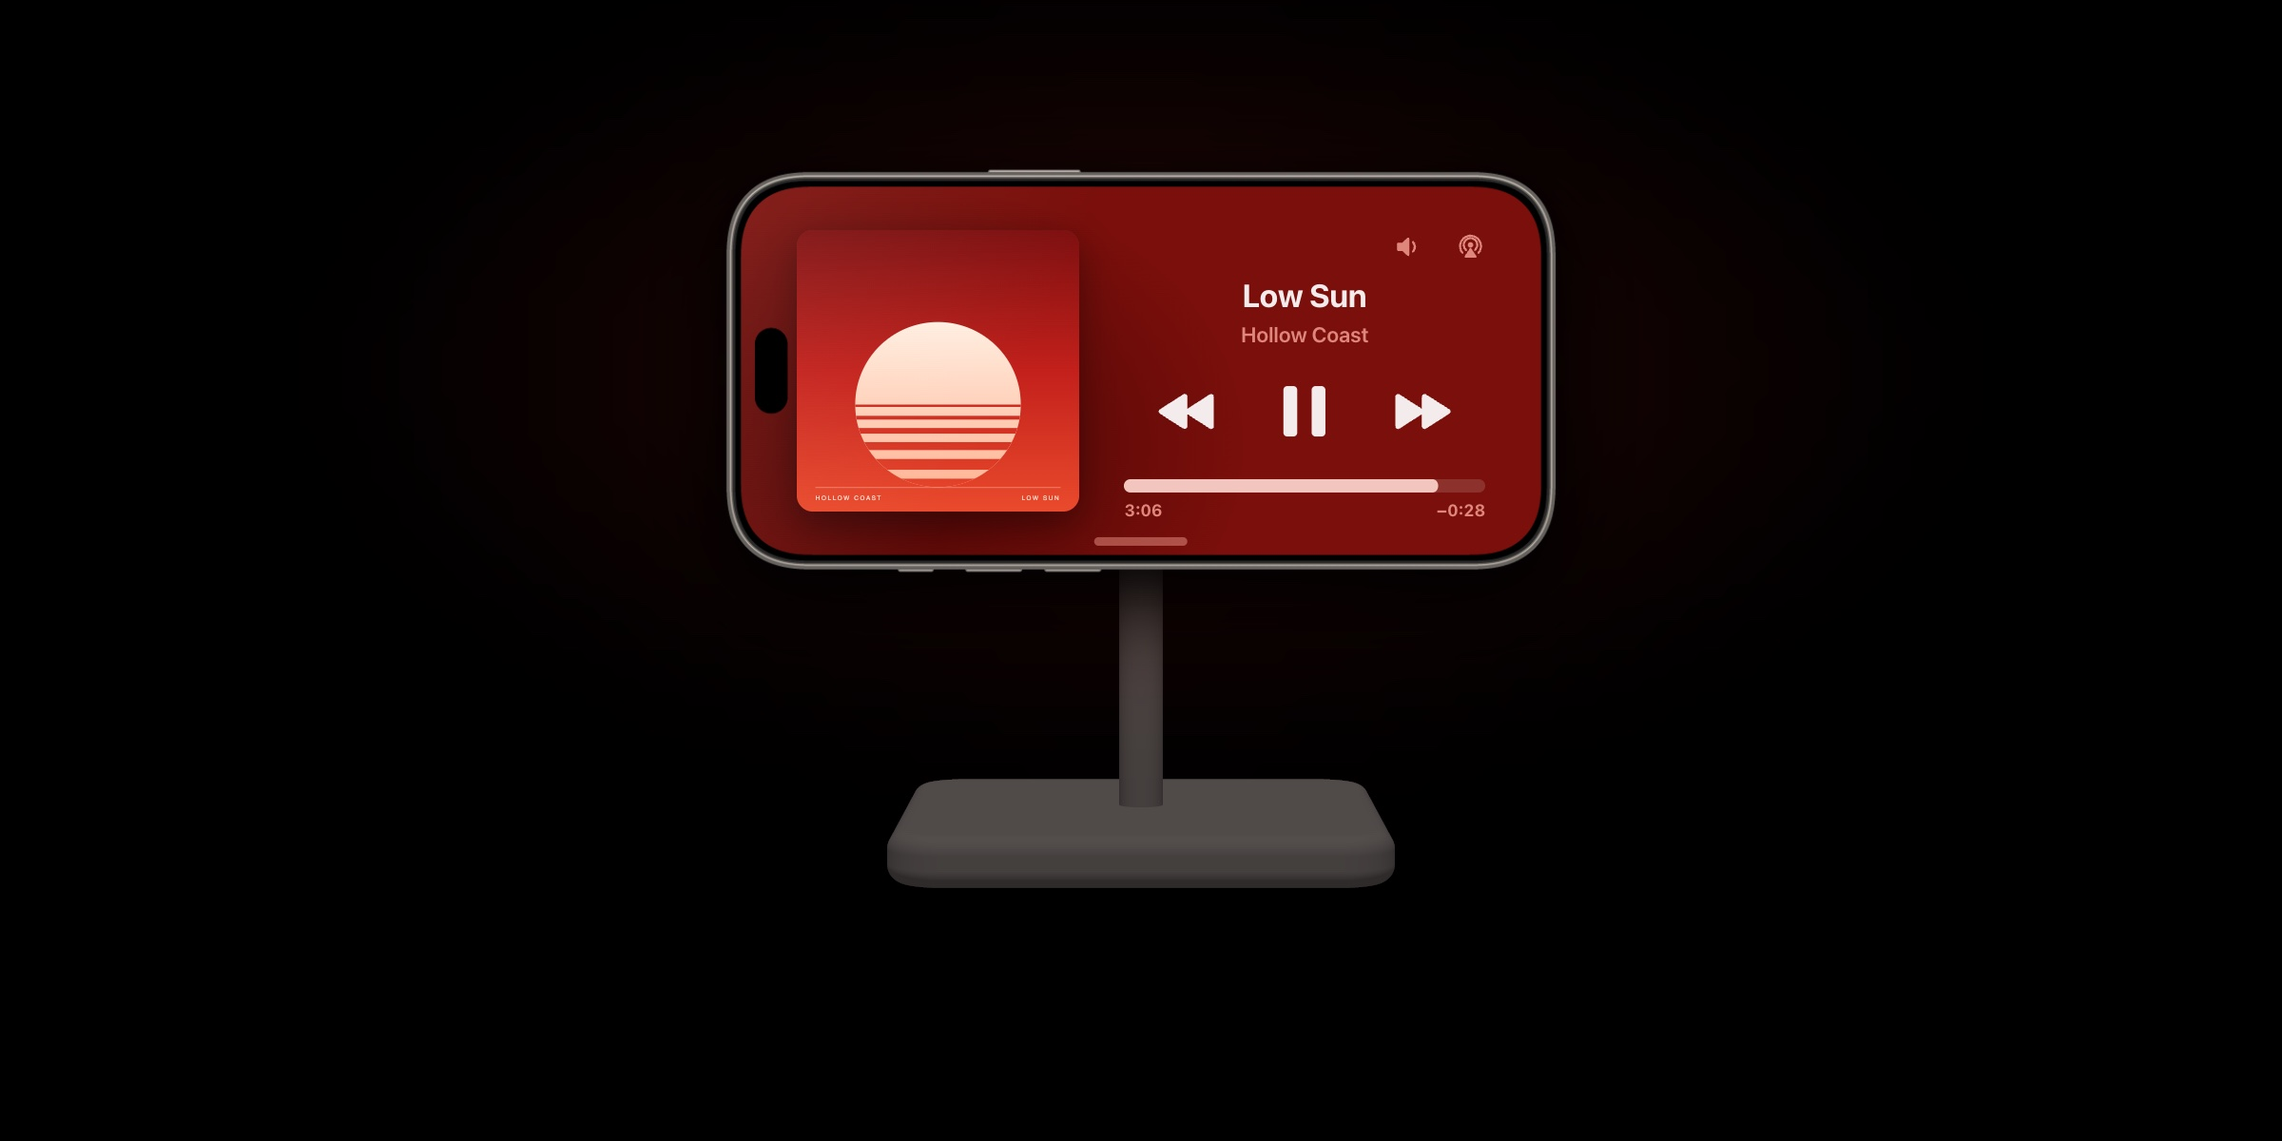
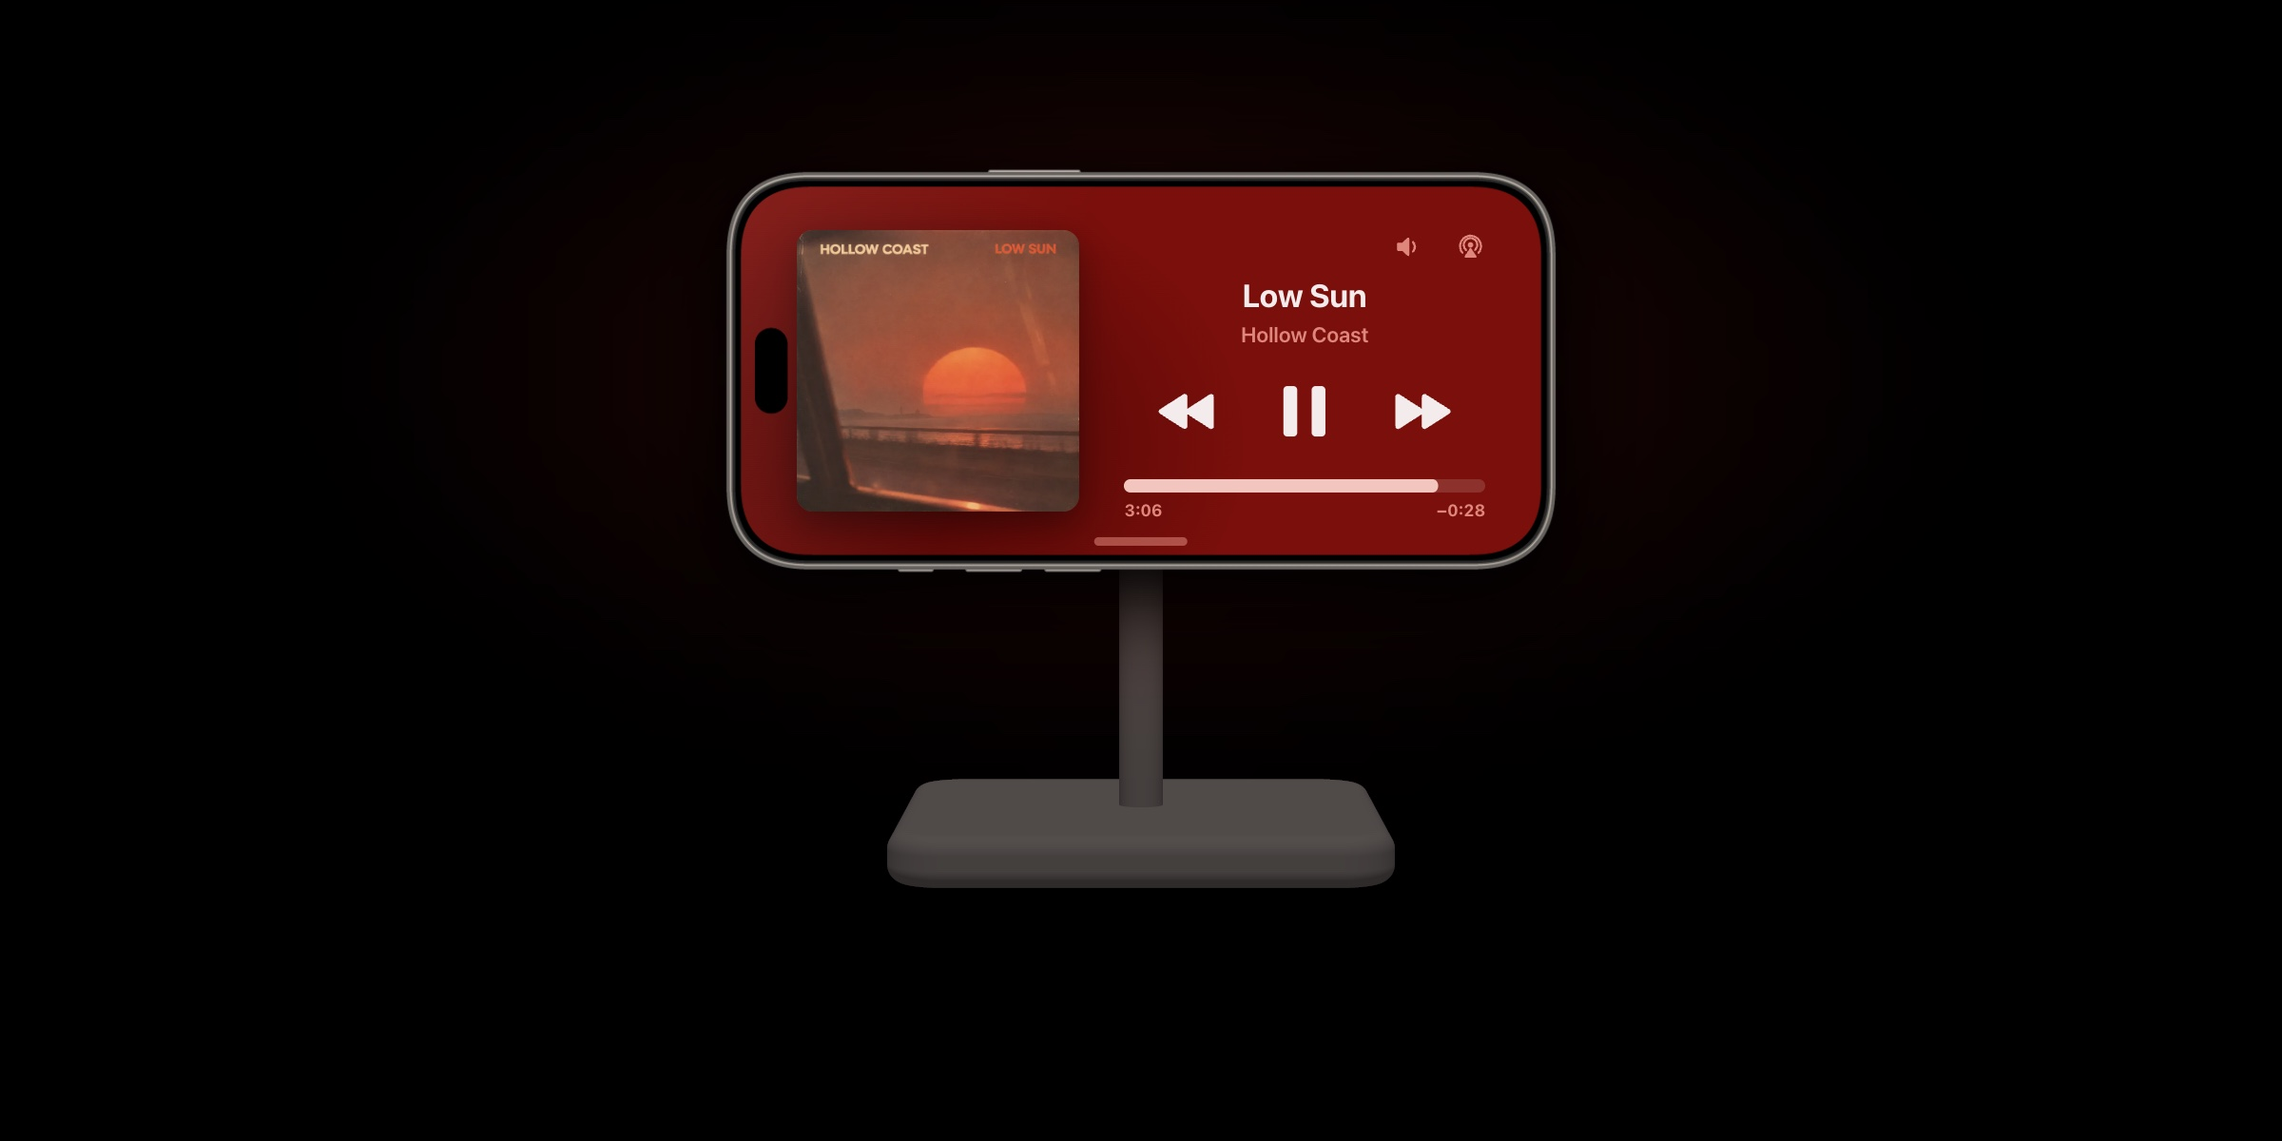
Second Chair: new record covers, in two sizes
The six made-up records now use AI-generated covers in place of the flat SVGs.
Each is a 720 px WebP for StandBy and Continue Listening and a 144 px one for
every small place (menus, Lock Screen, Watch, Up Next), so the first screen
loads one big cover rather than six. The stage colours stay hand-picked.

og.png and the Made with Merritt card and slides are re-rendered with the new
Low Sun cover.

Changed region(s): [[0.3438, 0.185, 0.5, 0.4625]]

diff --git a/second-chair/index.html b/second-chair/index.html
@@ -97,7 +97,7 @@
           <div class="mac-menu hero-menu" data-surface="mac">
             <div class="mm-head"><b>On This Mac</b></div>
             <div class="mm-track">
-              <div class="mm-art"><img class="art" data-bind="art" src="assets/art/low-sun.svg" alt="" width="64" height="64"></div>
+              <div class="mm-art"><img class="art" data-bind="art" src="assets/art/low-sun-sm.webp" alt="" width="64" height="64"></div>
               <div class="mm-meta"><b data-bind="title">Low Sun</b><span data-bind="artist">Hollow Coast</span><span class="album" data-bind="album">Breakwater</span><small data-bind="state">Playing</small></div>
             </div>
             <div class="mm-progress" aria-hidden="true"><div class="mm-bar"><i data-bind="progress" style="--p:.87"></i></div><div class="mm-times"><span data-bind="elapsed">3:06</span><span data-bind="remaining">-0:28</span></div></div>
@@ -121,7 +121,7 @@
             <!-- StandBy's Now Playing, laid out as iOS draws it: artwork left; title, artist, controls and scrubber centred on the right. -->
             <div class="standby-ui">
               <div class="wall" aria-hidden="true"></div>
-              <div class="sb-art" data-swap="spin"><img class="art" data-bind="art" src="assets/art/low-sun.svg" alt="" width="300" height="300"></div>
+              <div class="sb-art" data-swap="spin"><img class="art" data-bind="art" src="assets/art/low-sun.webp" alt="" width="300" height="300"></div>
               <div class="sb-side">
                 <div class="sb-top" aria-hidden="true"><svg><use href="#i-vol-mid"/></svg><svg><use href="#i-airplay-audio"/></svg></div>
                 <div class="sb-meta"><b class="sb-title" data-bind="title">Low Sun</b><span class="sb-artist" data-bind="artist">Hollow Coast</span></div>
@@ -153,7 +153,7 @@
         <figcaption class="small">There: your Mac</figcaption>
         <div class="mac-menu ctl-menu" data-surface="mac">
           <div class="mm-track">
-            <div class="mm-art"><img class="art" data-bind="art" src="assets/art/low-sun.svg" alt="" width="64" height="64"></div>
+            <div class="mm-art"><img class="art" data-bind="art" src="assets/art/low-sun-sm.webp" alt="" width="64" height="64"></div>
             <div class="mm-meta"><b data-bind="title">Low Sun</b><span data-bind="artist">Hollow Coast</span><span class="album" data-bind="album">Breakwater</span><small data-bind="state">Playing</small></div>
           </div>
           <div class="mm-progress" aria-hidden="true"><div class="mm-bar"><i data-bind="progress" style="--p:.87"></i></div><div class="mm-times"><span data-bind="elapsed">3:06</span><span data-bind="remaining">-0:28</span></div></div>
@@ -176,7 +176,7 @@
             <p class="lock-time" aria-hidden="true" data-clock="time">18:24</p>
             <div class="np">
               <div class="np-head">
-                <div class="np-art"><img class="art" data-bind="art" src="assets/art/low-sun.svg" alt="" width="120" height="120"></div>
+                <div class="np-art"><img class="art" data-bind="art" src="assets/art/low-sun-sm.webp" alt="" width="120" height="120"></div>
                 <div class="np-meta"><b data-bind="title">Low Sun</b><span data-bind="artist">Hollow Coast</span></div>
                 <svg class="np-route" aria-hidden="true"><use href="#i-airplay"/></svg>
               </div>
@@ -210,9 +210,9 @@
             <!-- watchOS Now Playing, as Apple's Apple Watch User Guide shows it: Back and More in round buttons either side of the time,
                  the artwork, title and artist centred, then the three controls with the progress ring round Pause.
                  Volume is the Digital Crown, so there's no slider. -->
-            <img class="art w-bg" data-bind="art" src="assets/art/low-sun.svg" alt="" width="60" height="60">
+            <img class="art w-bg" data-bind="art" src="assets/art/low-sun-sm.webp" alt="" width="60" height="60">
             <div class="w-top"><span class="w-round"><svg viewBox="0 0 24 24"><path d="M14.5 5.5 8 12l6.5 6.5" fill="none" stroke="currentColor" stroke-width="2.6" stroke-linecap="round" stroke-linejoin="round"/></svg></span><time class="w-time" data-clock="time">18:24</time><span class="w-round w-dots"><i></i><i></i><i></i></span></div>
-            <div class="w-cover"><img class="art" data-bind="art" src="assets/art/low-sun.svg" alt="" width="120" height="120"></div>
+            <div class="w-cover"><img class="art" data-bind="art" src="assets/art/low-sun-sm.webp" alt="" width="120" height="120"></div>
             <div class="w-meta"><b class="w-title" data-bind="title">Low Sun</b><span class="w-artist" data-bind="artist">Hollow Coast</span></div>
             <div class="w-controls">
               <button type="button" tabindex="-1" class="w-btn" data-cmd="previous" aria-label="Previous, from Apple Watch"><svg class="glyph-fill"><use href="#i-prev"/></svg></button>
@@ -240,12 +240,12 @@
     <div class="hand" data-where="mac" role="group" aria-label="Illustration: moving a song between Music on a Mac and Apple Music on an iPhone. The buttons work, on this page only.">
       <div class="place place-mac">
         <div class="hand-card" data-surface="hand-mac">
-          <div class="hand-art"><img class="art" data-bind="art" src="assets/art/low-sun.svg" alt="" width="300" height="300"></div>
+          <div class="hand-art"><img class="art" data-bind="art" src="assets/art/low-sun.webp" alt="" width="300" height="300"></div>
           <div class="hand-side">
             <div class="hand-meta"><b data-bind="title">Low Sun</b><span data-bind="artist">Hollow Coast</span></div>
             <p class="hand-state"><span class="hs-word" data-bind="state">Playing</span> <span class="hs-time" data-bind="elapsed"></span></p>
             <p class="queue-label">Up Next</p>
-            <ol class="queue queue-mac" aria-label="Up Next on the Mac" data-for="0"><li><img src="assets/art/small-hours.svg" alt="Small Hours, Fen Lights" width="40" height="40"></li><li><img src="assets/art/overcast.svg" alt="Overcast, Brightening, Juniper Hall" width="40" height="40"></li><li><img src="assets/art/ticket-hall.svg" alt="Ticket Hall, Polly Atlas" width="40" height="40"></li><li><img src="assets/art/tidewater.svg" alt="Tidewater, Brennan &amp; Hale" width="40" height="40"></li><li><img src="assets/art/allotment.svg" alt="Allotment, The Small Holdings" width="40" height="40"></li><li class="more">and up to 20 more</li></ol>
+            <ol class="queue queue-mac" aria-label="Up Next on the Mac" data-for="0"><li><img src="assets/art/small-hours-sm.webp" alt="Small Hours, Fen Lights" width="40" height="40"></li><li><img src="assets/art/overcast-sm.webp" alt="Overcast, Brightening, Juniper Hall" width="40" height="40"></li><li><img src="assets/art/ticket-hall-sm.webp" alt="Ticket Hall, Polly Atlas" width="40" height="40"></li><li><img src="assets/art/tidewater-sm.webp" alt="Tidewater, Brennan &amp; Hale" width="40" height="40"></li><li><img src="assets/art/allotment-sm.webp" alt="Allotment, The Small Holdings" width="40" height="40"></li><li class="more">and up to 20 more</li></ol>
           </div>
         </div>
         <p class="place-name display" aria-hidden="true">Mac</p>

diff --git a/second-chair/getting-started/index.html b/second-chair/getting-started/index.html
@@ -145,7 +145,7 @@
               <div class="mac-menu">
                 <div class="mm-head"><b>On This Mac</b></div>
                 <div class="mm-track">
-                  <div class="mm-art"><img class="art" src="../assets/art/small-hours.svg" alt="" width="64" height="64"></div>
+                  <div class="mm-art"><img class="art" src="../assets/art/small-hours-sm.webp" alt="" width="64" height="64"></div>
                   <div class="mm-meta"><b>Small Hours</b><span>Fen Lights</span><span class="album">Lit Windows</span><small>Playing</small></div>
                 </div>
                 <div class="mm-progress"><div class="mm-bar"><i style="--p:.32"></i></div><div class="mm-times"><span>1:21</span><span>-2:51</span></div></div>
@@ -279,7 +279,7 @@
                     <div class="bar"><span data-clock="time">18:24</span><i></i></div>
                     <h4>Second Chair</h4>
                     <p class="sec-h">Now Playing</p>
-                    <div class="sec"><div class="row np-row"><span class="a"><img src="../assets/art/small-hours.svg" alt="" width="40" height="40"></span><span><b>Small Hours</b><span>Fen Lights</span></span></div></div>
+                    <div class="sec"><div class="row np-row"><span class="a"><img src="../assets/art/small-hours-sm.webp" alt="" width="40" height="40"></span><span><b>Small Hours</b><span>Fen Lights</span></span></div></div>
                     <p class="sec-h" style="margin-top:5cqw">Lock Screen and StandBy</p>
                     <div class="sec hot"><div class="row key-label">Show in Now Playing</div></div>
                     <p class="foot">If you dismiss the player, it stays hidden until you next open Second Chair.</p>
@@ -356,7 +356,7 @@
                     <div class="bar"><span data-clock="time">18:24</span><i></i></div>
                     <h4>Second Chair</h4>
                     <p class="sec-h">Now Playing</p>
-                    <div class="sec"><div class="row np-row"><span class="a"><img src="../assets/art/small-hours.svg" alt="" width="40" height="40"></span><span><b>Small Hours</b><span>Fen Lights</span></span></div></div>
+                    <div class="sec"><div class="row np-row"><span class="a"><img src="../assets/art/small-hours-sm.webp" alt="" width="40" height="40"></span><span><b>Small Hours</b><span>Fen Lights</span></span></div></div>
                     <p class="sec-h" style="margin-top:5cqw">Continue Listening</p>
                     <div class="sec hot"><div class="row"><span>Status</span><span class="v">Ready</span></div><div class="row cl-row"><svg class="cl-ico"><use href="#i-iphone"/></svg><span><b>Continue on iPhone</b><span>Continue listening on your iPhone, including your Up Next queue. Playback on your Mac will pause.</span></span></div></div>
                   </div>
@@ -386,7 +386,7 @@
                 <div class="mm-head"><b>On This Mac</b><span><svg><use href="#i-iphone"/></svg>Continued on iPhone</span></div>
                 <div class="mm-dim">
                 <div class="mm-track">
-                  <div class="mm-art"><img class="art" src="../assets/art/small-hours.svg" alt="" width="64" height="64"></div>
+                  <div class="mm-art"><img class="art" src="../assets/art/small-hours-sm.webp" alt="" width="64" height="64"></div>
                   <div class="mm-meta"><b>Small Hours</b><span>Fen Lights</span><span class="album">Lit Windows</span><small>Paused</small></div>
                 </div>
                 <div class="mm-progress"><div class="mm-bar"><i style="--p:.32"></i></div><div class="mm-times"><span>1:21</span><span>-2:51</span></div></div>

diff --git a/second-chair/assets/js/session.js b/second-chair/assets/js/session.js
@@ -3,7 +3,8 @@
 // One listening session, shared by every device picture on the page.
 // The Mac leads; the iPhone follows a beat later. Nothing here talks to a real device.
 
-// Artwork lives beside this script: assets/art/<id>.svg
+// Artwork lives beside this script: assets/art/<id>.webp (720 px, for StandBy and Continue Listening's big covers)
+// and <id>-sm.webp (144 px, for every small one: menus, Lock Screen, Watch, Up Next).
 const ART_BASE = (document.currentScript ? new URL('../art/', document.currentScript.src).href : 'assets/art/');
 
 const RECORDS = [
@@ -21,7 +22,9 @@ const RECORDS = [
     stage: '#3a6535', ink: '#ffffff', glow: '#f2a03f', wall: ['#142812', '#4c7f45'] },
 ];
 
-const artURL = (r) => r.art || `${ART_BASE}${r.id}.svg`;   // a song picked from Apple Music brings its own artwork
+const artURL = (r, small) => r.art || `${ART_BASE}${r.id}${small ? '-sm' : ''}.webp`;   // a song picked from Apple Music brings its own artwork
+const BIG_ART = '.sb-art, .hand-art';   // the only places a cover is shown larger than 72 px
+const artFor = (img, r) => artURL(r, !img.closest(BIG_ART));
 
 const reducedMotion = matchMedia('(prefers-reduced-motion: reduce)');
 
@@ -146,7 +149,7 @@ class Surface {
   }
 
   #swapArt(img, r, instant, dir = 1) {
-    const src = artURL(r);
+    const src = artFor(img, r);
     if (instant || reducedMotion.matches || !img.getAttribute('src')) { img.src = src; img.alt = ''; return; }
     const pre = new Image(); pre.src = src;
     const ready = pre.decode ? pre.decode().catch(() => {}) : Promise.resolve();

diff --git a/second-chair/_docs/card.html b/second-chair/_docs/card.html
@@ -39,7 +39,7 @@
             <!-- StandBy's Now Playing, laid out as iOS draws it: artwork left; title, artist, controls and scrubber centred on the right. -->
             <div class="standby-ui">
               <div class="wall" aria-hidden="true"></div>
-              <div class="sb-art" data-swap="spin"><img class="art" data-bind="art" src="../assets/art/low-sun.svg" alt="" width="300" height="300"></div>
+              <div class="sb-art" data-swap="spin"><img class="art" data-bind="art" src="../assets/art/low-sun.webp" alt="" width="300" height="300"></div>
               <div class="sb-side">
                 <div class="sb-top" aria-hidden="true"><svg><use href="#i-vol-mid"/></svg><svg><use href="#i-airplay-audio"/></svg></div>
                 <div class="sb-meta"><b class="sb-title" data-bind="title">Low Sun</b><span class="sb-artist" data-bind="artist">Hollow Coast</span></div>

diff --git a/second-chair/_docs/slide.html b/second-chair/_docs/slide.html
@@ -55,7 +55,7 @@
             <!-- StandBy's Now Playing, laid out as iOS draws it: artwork left; title, artist, controls and scrubber centred on the right. -->
             <div class="standby-ui">
               <div class="wall" aria-hidden="true"></div>
-              <div class="sb-art" data-swap="spin"><img class="art" data-bind="art" src="../assets/art/low-sun.svg" alt="" width="300" height="300"></div>
+              <div class="sb-art" data-swap="spin"><img class="art" data-bind="art" src="../assets/art/low-sun.webp" alt="" width="300" height="300"></div>
               <div class="sb-side">
                 <div class="sb-top" aria-hidden="true"><svg><use href="#i-vol-mid"/></svg><svg><use href="#i-airplay-audio"/></svg></div>
                 <div class="sb-meta"><b class="sb-title" data-bind="title">Low Sun</b><span class="sb-artist" data-bind="artist">Hollow Coast</span></div>

diff --git a/second-chair/assets/js/home.js b/second-chair/assets/js/home.js
@@ -430,12 +430,12 @@ if (hand) {
 
   const upNext = (i) => Array.from({ length: 5 }, (_, k) => RECORDS[(i + 1 + k) % RECORDS.length]);
   const fillQueue = (ol, i) => {
-    ol.innerHTML = upNext(i).map((r) => `<li><img src="${artURL(r)}" alt="${r.title}, ${r.artist}" width="40" height="40"></li>`).join('') + '<li class="more">and up to 20 more</li>';
+    ol.innerHTML = upNext(i).map((r) => `<li><img src="${artURL(r, true)}" alt="${r.title}, ${r.artist}" width="40" height="40"></li>`).join('') + '<li class="more">and up to 20 more</li>';
   };
 
   const fill = (card, r) => {
     const img = $('[data-bind="art"]', card);
-    if (!img.src.endsWith(`${r.id}.svg`)) img.src = artURL(r);
+    if (!img.src.endsWith(`/${r.id}.webp`)) img.src = artURL(r);
     $('[data-bind="title"]', card).textContent = r.title;
     $('[data-bind="artist"]', card).textContent = r.artist;
   };

diff --git a/second-chair/_docs/README.md b/second-chair/_docs/README.md
@@ -16,7 +16,7 @@ second-chair/
   assets/js/home.js          Home: the opening, Continue Listening, scrub and volume
   assets/js/guide.js         Guide: contents highlight, copy button
   assets/js/clock.js         Both: every clock shows the visitor's current time and date
-  assets/art/                Six made-up record covers (original SVGs, drawn for the site)
+  assets/art/                Six made-up record covers (AI-generated images, made for the site), each in two sizes
   assets/fonts/              Newsreader Regular, roman and italic: the fallback display face (SIL Open Font Licence, OFL.txt)
   assets/img/                App icon, favicon, social image (og.png)
   _docs/                     This README, DESIGN.md and serve.py. GitHub Pages runs Jekyll, which never publishes a folder starting with _
@@ -95,7 +95,14 @@ On the home page, keep the drawn devices: they're the demonstration. A real Stan
 
 ## The records
 
-The six records are made up: titles, artists and covers. The covers are original SVGs in `assets/art/`. To add or change one, edit `RECORDS` at the top of `assets/js/session.js`: `stage` is the colour the hero takes while it plays, `ink` is white or near-black to suit it (check 4.5:1 for small text), and `wall` is the two colours behind StandBy and the Lock Screen. The file name in `art/` is the `id`.
+The six records are made up: titles, artists and covers. The covers are AI-generated images made for the site (16 November 2026; they replaced the original flat SVGs), each in `assets/art/` twice: `<id>.webp` at 720 px for the two big places (StandBy and Continue Listening, up to 357 CSS px wide) and `<id>-sm.webp` at 144 px for every small one (menus, Lock Screen, Watch, Up Next), so the first screen loads one big cover rather than six. `BIG_ART` in `session.js` says which places are big. To make them from a new square master:
+
+```bash
+cwebp -q 82 -m 6 -sharp_yuv -resize 720 720 cover.png -o assets/art/<id>.webp
+cwebp -q 80 -m 6 -sharp_yuv -resize 144 144 cover.png -o assets/art/<id>-sm.webp
+```
+
+To add or change a record, edit `RECORDS` at the top of `assets/js/session.js`: `stage` is the colour the hero takes while it plays, `ink` is white or near-black to suit it (check 4.5:1 for small text), and `wall` is the two colours behind StandBy and the Lock Screen. The file name in `art/` is the `id`. The colours are chosen by eye, not read from the covers: the site's own reading (the one "Try it with your own song" uses) gave muddy browns for these. If Low Sun's cover changes, re-render `og.png` and the Made with Merritt card and slides (`_docs/card.html`, `_docs/slide.html`), which all show it.
 
 ## When a new version ships
 
